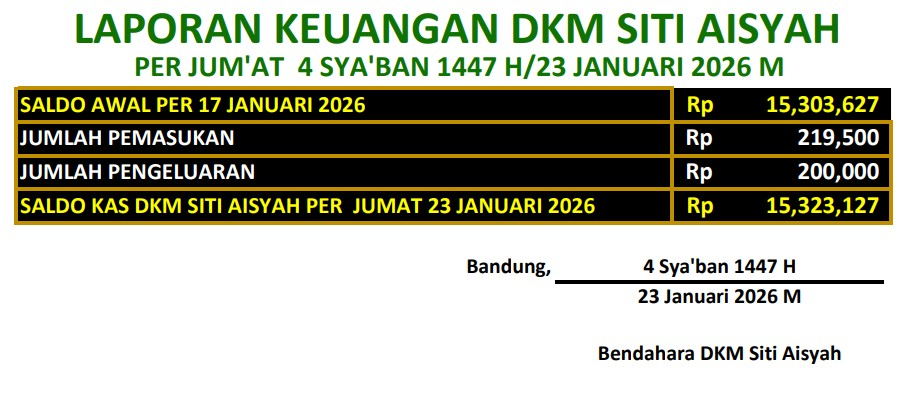
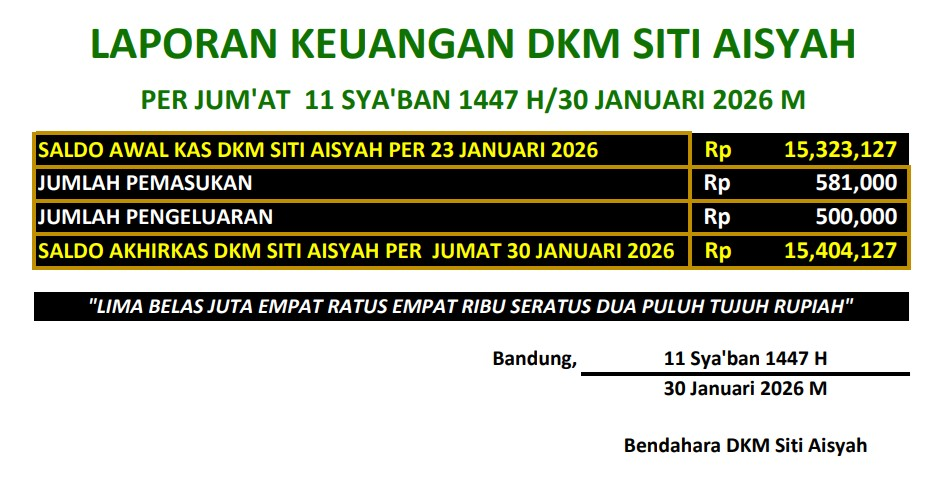
update

diff --git a/index.html b/index.html
@@ -790,7 +790,7 @@
 					<!-- <div class="marquee horizontal" id="informasi">
 					</div> -->
 					<div class="marquee-x">
-						<p>Alhamdulillah Kencleng Jumat 4 Sya'ban 1447 H/ 23 Januari 2026 M sebesar : Rp 381.000,- Jazakallahu khairan katsiron
+						<p>Alhamdulillah Kencleng Jumat 11 Sya'ban 1447 H/30 Januari 2026 M sebesar : Rp 336.500,- Jazakallahu khairan katsiron
 						&nbsp; &nbsp;*&nbsp; &nbsp;
 						Setiap rupiah yang kau sedekahkan, menjadi saksi cinta kepada Allah dan sesama
 						&nbsp; &nbsp;*&nbsp; &nbsp;
